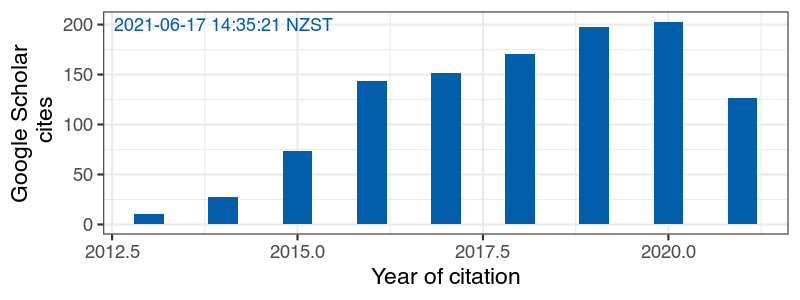
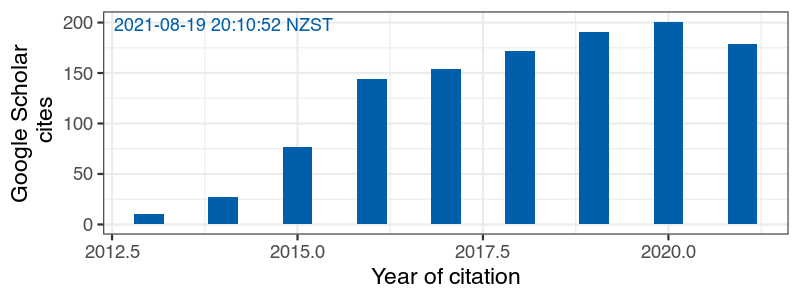
updated cv with ONT information

diff --git a/index.md b/index.md
@@ -19,11 +19,11 @@ Bioinformatics PhD and Data Scientist
 
 ## Currently
 
-My current role is as a Senior Bioinformatician at [ESR](https://www.esr.cri.nz/) (Institute of Environmental Science and Research). I have extensive experience in computational genomics and bioinformatics, specialising in human health genomics. I completed a postdoc at Queensland University of Technology (Brisbane, Australia) working on the development of methods to deal with ever expanding genomic data sets and their access and interpretation back to the people that matter (i.e. clients, clinicians, researchers, public, etc). Part of my role at ESR has been implementing deep learning techniques in several key genomic areas, including clinical variant calling/identification and base-calling of DNA sequence data. I am also leading the development of machine learning/AI technology on portable Nvidia modules for field/remote deployment and use. In May 2019 I was appointed to the Genomics Aoteoroa Bioinformatics Leadership Team, where I am responsible for overseeing bioinformatics support for health projects across New Zealand. I am also heavily involved in the Data Carpentries as an instructor and facilitator, and am a mentor on ESR's data science accelerator programme.
+My current role is as a Senior Bioinformatician at [Oxford Nanopore Technologies](www.nanoporetech.com) in the Singapore Applications Team. I have extensive experience in computational genomics and bioinformatics, specialising in human health genomics. I completed a postdoc at Queensland University of Technology (Brisbane, Australia) working on the development of methods to deal with ever expanding genomic data sets and their access and interpretation back to the people that matter (i.e. clients, clinicians, researchers, public, etc). In my previous role I implemented deep learning techniques in several key genomic areas, including clinical variant calling/identification and base-calling of DNA sequence data. I also led the development of machine learning/AI technology on portable Nvidia modules for field/remote deployment and use, namely using Nanopore technology for affordable, accessible and portable sequencing. I was part of the Genomics Aoteoroa Bioinformatics Leadership Team for 3 years, where I was responsible for overseeing bioinformatics support for health projects across New Zealand. I have also been heavily involved in the Data Carpentries as an instructor and facilitator.
 
 ## Professional Positions Held
 
-`2022`
+`2022-`
 __Oxford Nanopore Technologies__ Senior Bioinformatician | Applications
 
 `2019-2022`
@@ -38,10 +38,10 @@ __Queensland University of Technology__ Postdoc Research Fellow, Bioinformatics
 `2013-2014` 
 __Environmental Science Research (ESR)__ Honorary Senior Scientist (Bioinformatics)
 
-`2011-` 
+`2011-2021` 
 __Victoria University of Wellington__ Lecturer CLNR580 (Clinical Research Preparation)
 
-`2010-` 
+`2010-2020` 
 __Victoria University of Wellington__ Lecturer BMSC406 (Science and Ethics)
 
 ## Education
@@ -130,6 +130,15 @@ MapNet 2019, Victoria University of Wellington - Organising committee member
 
 ### Honours and Distinctions
 
+`2021`
+_Science New Zealand Awards_ - Early Career Researcher of the Year
+
+`2019`
+_Mentor_ – Royal Society Powering Potential
+
+`2019`
+_Data Carpentries Instructor_
+
 `2017` 
 _QUT School of Biomedical Sciences Travel Grant_
 
@@ -171,9 +180,9 @@ A course designed to walk Research Supervisors through the frameworks and pragma
 
 ## Publication Metrics
 
-* Journal articles: __46__
+* Journal articles: __49__
 * H-index: __19__
-* Citations: __1225__
+* Citations: __1337__
 
 ## Publications
 
